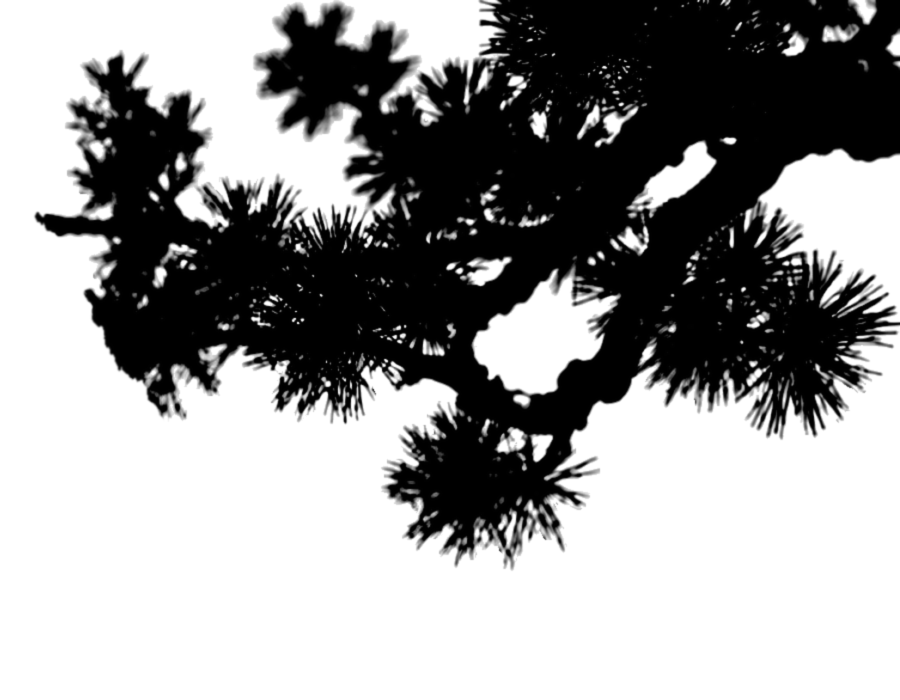
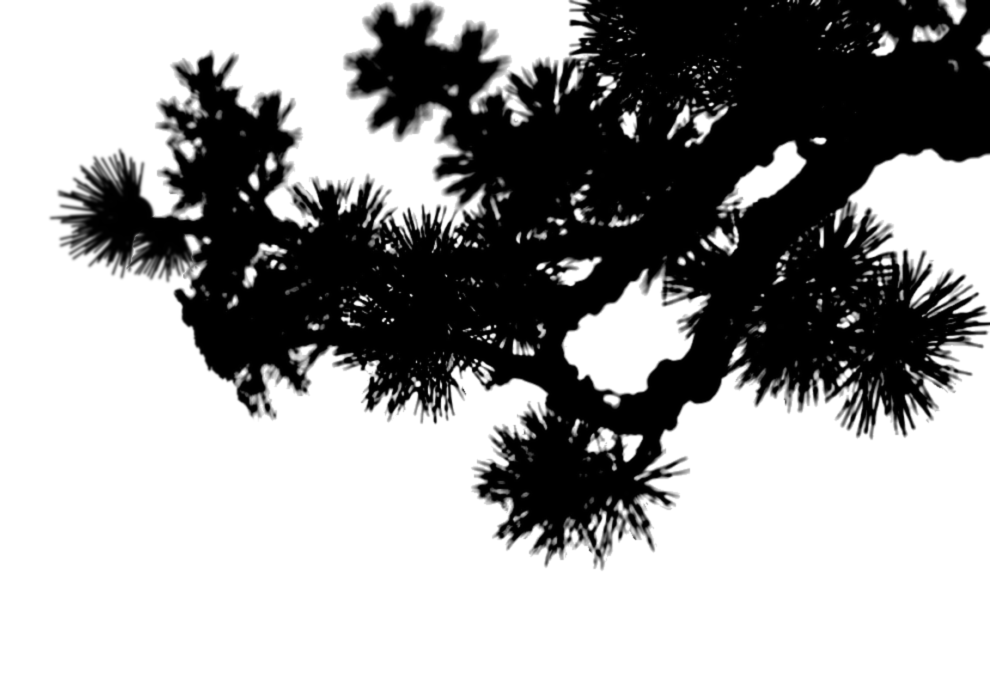
fix: 소나무 그림자 왼쪽 끝 가지에 솔잎을 달아 자연스럽게 마무리
1. 그림자 마스크
- img/hero-bg-pine-right.webp: 왼쪽 끝에 솔잎 없이 가지만 뻗어 있던 부분에 다른 솔잎 뭉치와 같은 형태(가운데에서 사방으로 뻗는 솔잎, 밑동은 굵고 끝은 가늘게)의 솔잎 두 뭉치를 그려 넣음, 왼쪽 여백 90px 추가
- css/after-sound.css: 가로세로 비율 990/700, 너비 74vw→81.4vw·모바일 138vw→151.8vw(가지 크기·오른쪽 위 위치는 그대로)
- index.html: 버전 갱신(r63)

diff --git a/index.html b/index.html
@@ -22,7 +22,7 @@
 <meta name="twitter:image:alt" content="원목 탁자 위 백자 도라지문 소리잔과 광주요 로고, 오래 쓰는 아름다움">
 </head><body>
 <link rel="icon" href="favicon.svg" type="image/svg+xml">
-<link rel="stylesheet" href="css/style.css?v=20261108-r60"><link rel="stylesheet" href="css/loader.css?v=20261106-top-layer"><link rel="stylesheet" href="css/marble.css?v=1030072721"><link rel="stylesheet" href="css/make.css?v=20261108-r60"><link rel="stylesheet" href="css/after-sound.css?v=20261108-r62"><link rel="stylesheet" href="css/footer.css?v=20261106-mock"><script src="js/glb-shim.js?v=20261108-r61"></script><script src="js/kjy-pop.js?v=20261108-r57"></script><script src="js/scroll-cue.js?v=20261108-r60" defer></script><script src="js/script.js?v=20261108-r61" defer></script><script src="js/hero-scene.js?v=20261108-r52" defer></script>
+<link rel="stylesheet" href="css/style.css?v=20261108-r60"><link rel="stylesheet" href="css/loader.css?v=20261106-top-layer"><link rel="stylesheet" href="css/marble.css?v=1030072721"><link rel="stylesheet" href="css/make.css?v=20261108-r60"><link rel="stylesheet" href="css/after-sound.css?v=20261108-r63"><link rel="stylesheet" href="css/footer.css?v=20261106-mock"><script src="js/glb-shim.js?v=20261108-r61"></script><script src="js/kjy-pop.js?v=20261108-r57"></script><script src="js/scroll-cue.js?v=20261108-r60" defer></script><script src="js/script.js?v=20261108-r61" defer></script><script src="js/hero-scene.js?v=20261108-r52" defer></script>
 <script type="importmap">{"imports":{"three":"https://cdn.jsdelivr.net/npm/three@0.180.0/build/three.module.js","three/addons/":"https://cdn.jsdelivr.net/npm/three@0.180.0/examples/jsm/"}}</script><script type="module" src="js/kjy-hand.js?v=20261108-r44"></script>
 <script>(function(){var L=["js/clay.js?v=20261108-r39", "js/fire.js?v=20261108-r39", "js/after-sound.js?v=20261108-r58", "js/footer.js?v=20261106-petal3"];var d=0;function go(){if(d)return;d=1;L.forEach(function(u){var s=document.createElement('script');s.type='module';s.async=false;s.src=u;document.head.appendChild(s)})}function w(){var p=window.__kjyPop;if(p&&p.then){p.then(go,go);setTimeout(go,1500)}else go()}if(document.readyState==='loading')document.addEventListener('DOMContentLoaded',w);else w()})();</script>
 <div class="sori-loader" id="sori-loader" role="status" aria-label="광주요 소리잔 로딩 중">

diff --git a/css/after-sound.css b/css/after-sound.css
@@ -177,9 +177,9 @@ html body #beauty .beauty-marble{width:min(62svh,62vw)!important}
 #beauty .beauty-eyebrow{top:calc(5svh + 1.6667vw);font-size:clamp(13px,.95vw,18px);line-height:1.3;transform:translate(-50%,calc((1 - var(--bt-cap,0)) * 10px))}
 #beauty .beauty-caption{top:68svh;font-size:clamp(14px,1.05vw,20px);line-height:var(--hero-body-lh);transform:translate(-50%,calc(-50% + (1 - var(--bt-cap,0)) * 10px))}
 @media(max-width:767px){#beauty .beauty-eyebrow{top:calc(5svh + 6.6667vw);font-size:12px}#beauty .beauty-caption{top:80svh;font-size:13px}}
-/* 아름다움(낮) 소나무 그림자 — 가지 하나(왼쪽 끝까지 잘림 없이 이어진 가지)만 오른쪽 위에 둔다 */
-html body .kjy-pine-shadow{-webkit-mask-image:url(../img/hero-bg-pine-right.webp)!important;mask-image:url(../img/hero-bg-pine-right.webp)!important;-webkit-mask-size:100% 100%!important;mask-size:100% 100%!important;aspect-ratio:900/700!important;width:74vw!important;inset:-7% -3% auto auto!important}
-@media(max-width:767px){html body .kjy-pine-shadow{width:138vw!important}}
+/* 아름다움(낮) 소나무 그림자 — 가지 하나(왼쪽 끝 가지까지 솔잎이 달린 온전한 가지)만 오른쪽 위에 둔다 */
+html body .kjy-pine-shadow{-webkit-mask-image:url(../img/hero-bg-pine-right.webp)!important;mask-image:url(../img/hero-bg-pine-right.webp)!important;-webkit-mask-size:100% 100%!important;mask-size:100% 100%!important;aspect-ratio:990/700!important;width:81.4vw!important;inset:-7% -3% auto auto!important}
+@media(max-width:767px){html body .kjy-pine-shadow{width:151.8vw!important}}
 
 /* 사람들 섹션 소개 문구 굵기 400 */
 html body #people .people-intro{font-weight:400}
